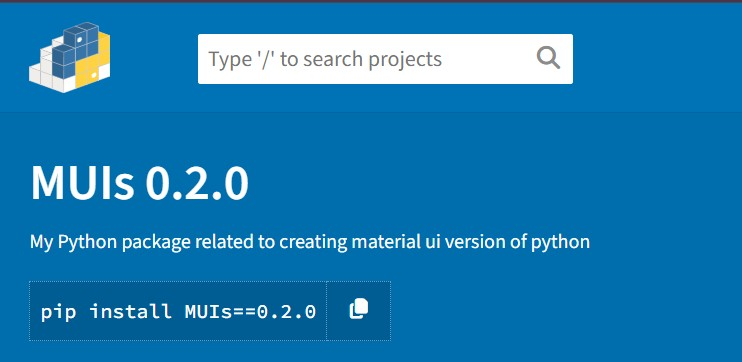
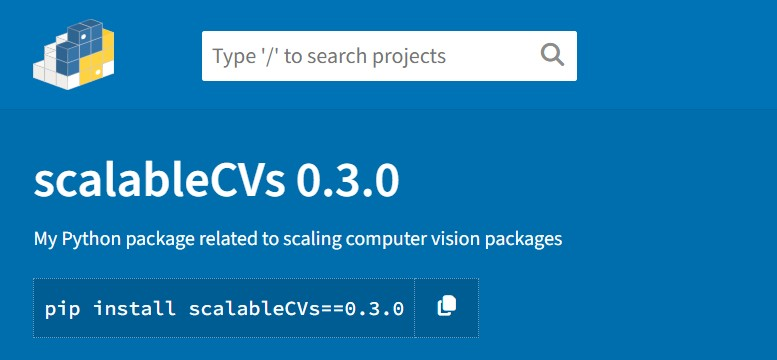
updated the package link

diff --git a/index.html b/index.html
@@ -1543,7 +1543,7 @@
 						</li>
 
 						<li>
-							<a target="_blank" href="https://pypi.org/project/MUIs/0.2.0/" class="size-link">!</a>
+							<a target="_blank" href="https://pypi.org/project/scalableCVs/0.3.0/" class="size-link">!</a>
 						</li>
 
 						<li>
